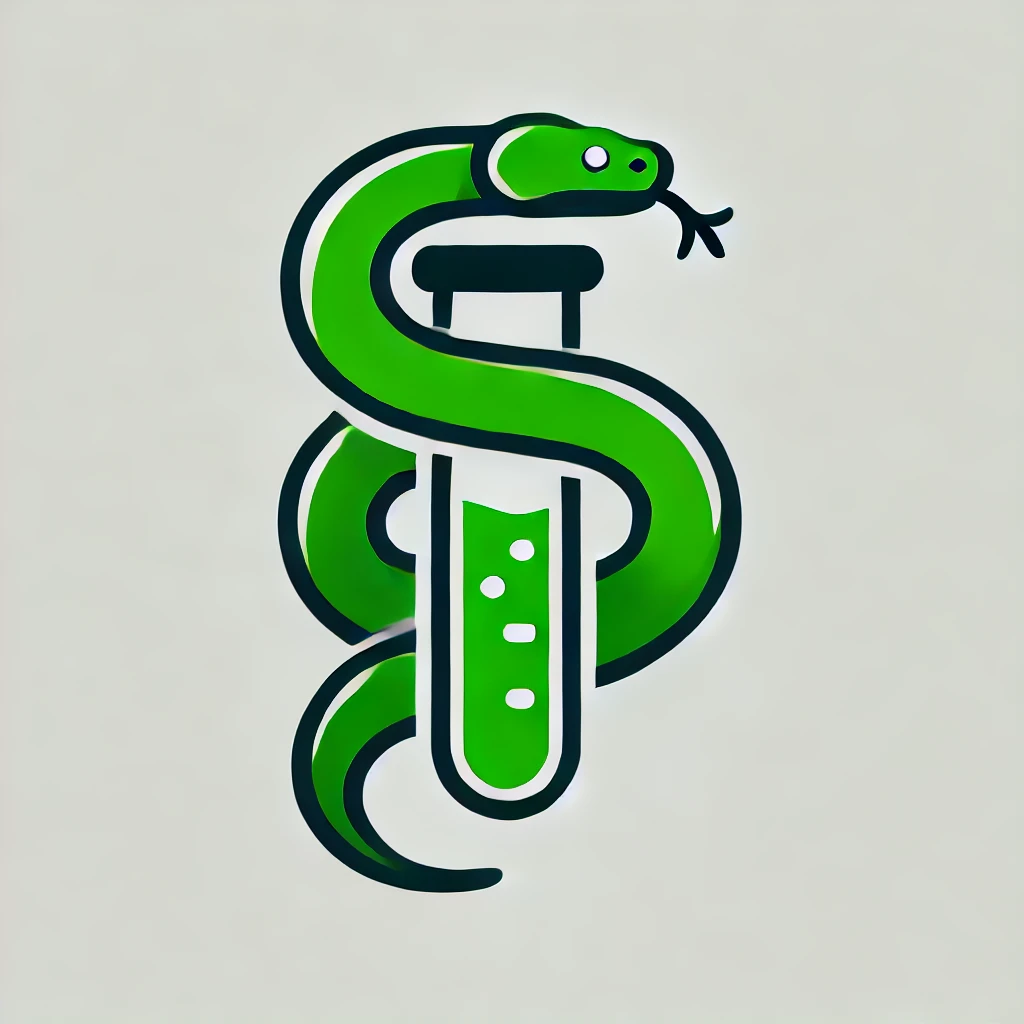
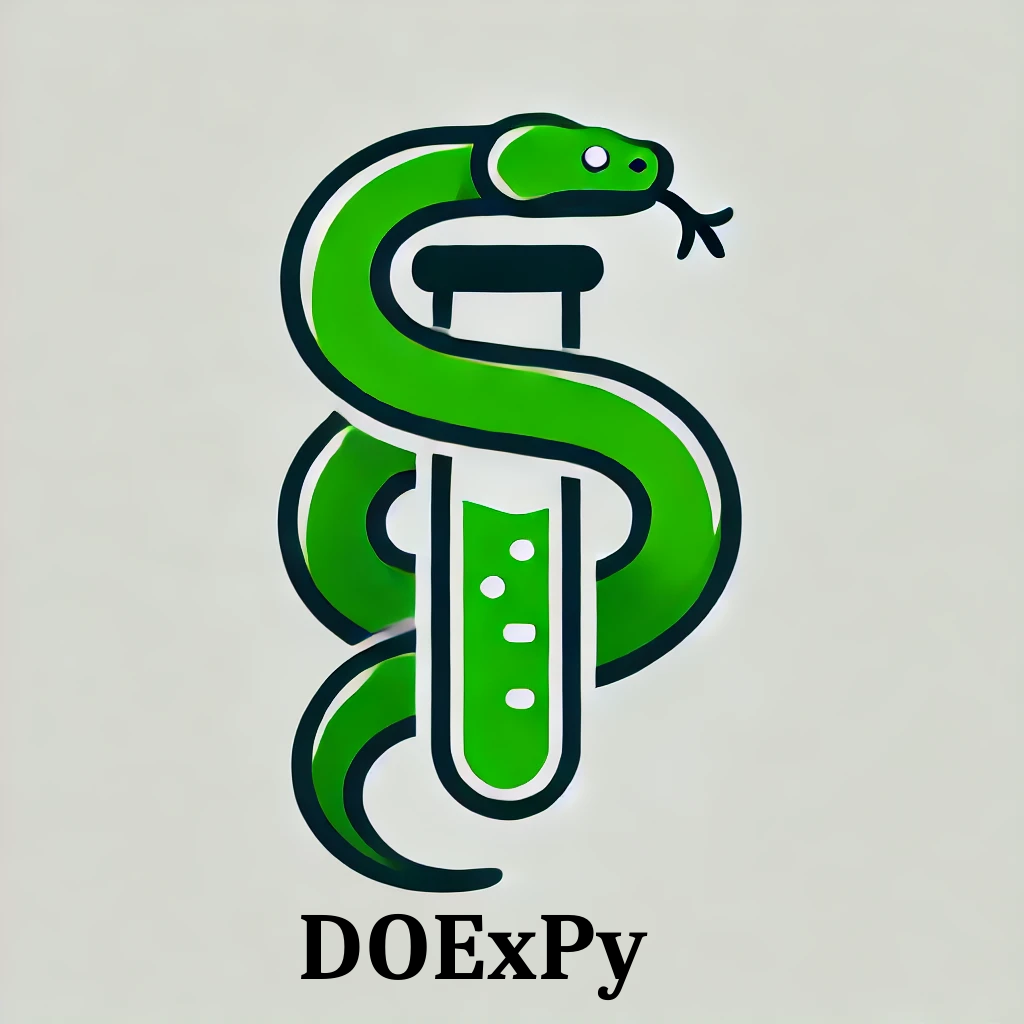
readme

Changed region(s): [[0.2812, 0.875, 0.625, 0.9688]]

diff --git a/README.md b/README.md
@@ -1,16 +1,17 @@
 
-# ![workflow](icon.png) DOExPy - An ML experiment design library
+<img src="icon.png" alt="Icon" style="height: 4em; vertical-align: middle;"> <span style="font-size: 1em; vertical-align: middle;">DOExPy - An ML experiment design library</span>
+-------------------------------------
 
 This repo contains the efficient and elegant implementation of python library. It builds on numpy and cvxpy and stpy libraries. It provides efficient way to implement:
 
 1. Bayesian Optimization, Maximum Identification
 2. Active Learning and Exploration algorithms
-3. Reinforcement learning with advanced exploration directed loss-functions 
-3. The library supports complex decision environments
-    a. State-less systems
-    b. Tabular MDPs
-    c. Linear Systems
-    d. Linear MDPs
+3. Experiment Design, Reinforcement learning with advanced exploration directed loss-functions 
+3. The library supports complex decision environments:\
+i) State-less systems \
+ii) Tabular MDPs\
+iii) Linear Systems\
+iv) Linear MDPs
     
 The library was developed as part of multi-year process and was used in the following publications. 
 
@@ -19,38 +20,110 @@ The library was developed as part of multi-year process and was used in the foll
 ](https://arxiv.org/abs/2402.08406), Published at: *NeurIPS 2024*
 3. [Modern Adaptive Experiment Design: Machine Learning Perspective](https://www.research-collection.ethz.ch/handle/20.500.11850/669541), *PhD Thesis of Mojmir Mutny*
 
+**Example:**
+Informative trajectories in the environment maximizing the diverse landscapes visited::
 
-![workflow](heatmap.png)
-![workflow](trajs.png)
+<img src="trajs.png" alt="Icon" style="height: 20em; vertical-align: middle;">
 
 ## 📦 Installation
 
 **Dependencies**:
 
- stpy
+ [`stpy`](www.github.com/Mojusko/stpy) - Stochastic Process library for Python 
+ 
+ `numpy` - Numerical LA
+
+ `cvxpy` - Convex optimization 
 
 **Via github**:
 
 To ensure you have a compatible environment to run the code in, we recommend using the [`environment.yaml`](environment.yaml) file to create a conda environment using `conda` or `mamba`. If you are curious, the detailed dependencies are listed in [`pyproject.toml`](pyproject.toml).
 
 ```bash
-pip install git+https://github.com/Hollfelder-Lab/lrDMS-IRED.git
+pip install -e . 
 ```
 
 ## 🚀 Usage
 
-#### Environemnt 
-A user has to implement an environment 
+A user needs to implement three things `environment`, `feedback model` and `functional` or also known as utility. 
+
+ which is a class that tells given an action and state what are the probabilities or transitions to the next state. 
+
+#### Environment 
+An environment model provides on one had a transition function to simulate a transition i.e. $x' \sim p(x'|x,a)$, and also provides a way to calculate a probability of specific transition, namely, $p(x'|x,a)$. Each new environment needs to be newly implemented, but a user is encouraged to use LLMs for this task given the examples provided.
 
 #### Feedback model 
+Implements a unit that changes the utility after a feedback has been received. This was we can implement bandit or Bayesian optimization algorithm. For example, for maximum identification, the utility is
+
+$$ U(d) \max_{z,z' \in \mathcal{Z}} ||\Phi(z)-\Phi(z')||_{(\sum_i d_i x_i x_i^\top)^{-1}}$$
+where $\mathcal{Z}$ is a set of potential maximizers of the function which is defined as 
+
+#### Utility
+The utility function represent the task a user wants to achieve. We provide a list of classical utilities such as:
+- Regret Maximization
+- Maximum Identification (Best-arm identification)
+- A-Experiment Design
+- D-Experiment Design
+- C-Experiment Design 
+- V-Experiment Design 
+- combinations thereof
 
 
-#### Convex Solver 
-    - Frank-wolfe
-    - Interior-Point method 
+#### The solution
+We propose to solve the utility as a function of the policy or its state-visitation in this case. This is not always possible, but is at the core of our approach. All the above problems satisfy this (see [[1]](https://proceedings.mlr.press/v206/mutny23a.html)). This can be either solved using interior-point solver if state-action polytope (constraints of the environment) can be summarized as a polytope. If this is not the case, we propose to use the *Frank-Wolfe*, where individual linear maximization oracles correspond to classical reinforcement learning that can be solved using myriad ways: 
+- DP (dynamic programming)
+- LP (linear programming)
+- Policy iteration 
+- Value iteration (suitably implemented)
+- For continuous state-spaces: Model predictive control, or different reparametrization techniques. 
 
-#### Solver
-Classical solver solving a linearized variant of the loss function. 
+### Easy Example 
+```python
+
+# Initialize the environment, in this case sochastic grid
+env = StochasticDummyGridWorld(prob = args.probability)
+
+# Choose the goal (utility) often referred to as functional in the code
+if adaptive:
+    design = AdaptiveDesignD(env, lambd=1e-3)  # Adaptive design, that performs iterative planning and see executed trajectories
+else:
+    design = DesignD(env, lambd=1e-3)  # Standard design, that is static and executed at once
+
+# Define the convex solver using the Frank-Wolfe algorithm
+convex_solver = FrankWolfe(
+    env, 
+    objective=design, # defign functiona
+    num_components=args.num_components,  # Number of linearizations for the Frank-wolfe algorithm
+    solver=DP,  # Solver for linearized problems (Dynamic programming here)
+    SummarizedPolicyType=DensityPolicy,  # Type of policy summarization and/or execution
+    accuracy=args.accuracy  # Dual certificate of Frank-Wolfe
+    )
+
+# Define the feedback class - In this case there is no feedback as D-design is without unknowns
+feedback = EmptyFeedback(env, design)
+
+# Create an instance of MdpExplore with the specified parameters
+me = MdpExplore(
+    env=env,
+    objective=design,
+    convex_solver=convex_solver, # Frank-Wolfe or Interior Point
+    verbosity=args.verbosity,
+    feedback=feedback, 
+    general_policy='markovian'  # Type of general policy
+)
+# A non-markovian policy performs updates to itself after each transition and replans. Markovian policy calculated a fixed markovian policy per episode (feedback iteration)
+
+# Run the MdpExplore instance
+val, opt_val = me.run(
+    episodes=args.episodes,  # Number of sequential interactions (experimental budget)
+    save_trajectory=args.savetrajectory  # Whether to save the trajectory
+)
+
+# The function returns the values and trajectories that were executed
+```
+
+
+
 
 ## 📜 License
 
